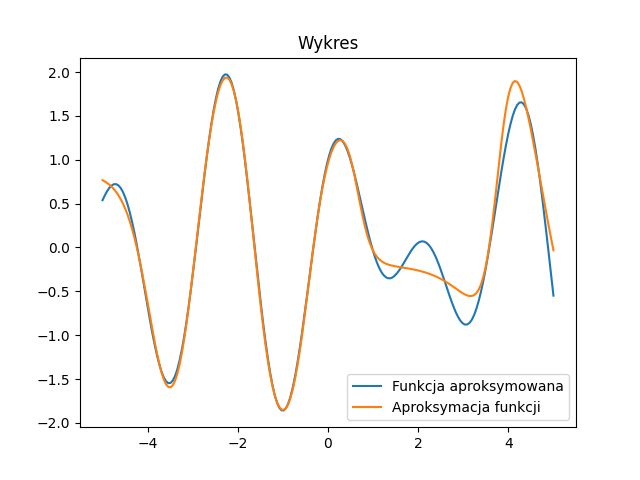
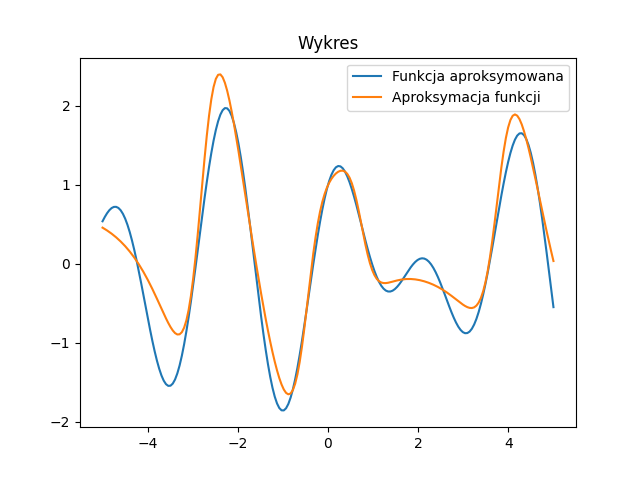
Change predict func

diff --git a/two_layer_perceptron.py b/two_layer_perceptron.py
@@ -63,14 +63,11 @@ class TwoLayerPerceptron:
     def _error_function_derivative(self, y_expected, y_result):
         return (y_result - y_expected) * 2
 
-    def predict(self, x):
-        # results = []
-        #
-        # for x in x_dataset:
-        #     h, y = self._forward(x)
-        #     results.append(y)
-        #
-        # return results
-        h, y = self._forward(x)
-        return y
-    
+    def predict(self, x_dataset):
+        results = []
+
+        for x in x_dataset:
+            h, y = self._forward(x)
+            results.append(y)
+
+        return results

diff --git a/draw_plot.py b/draw_plot.py
@@ -6,7 +6,7 @@ def draw_approximated_function_approximation_plot(lower_bound, upper_bound, appr
     coordinate_system = np.linspace(lower_bound, upper_bound, 200)
 
     y = approximated_func(coordinate_system)
-    approximation = [perceptron.predict(x) for x in coordinate_system]
+    approximation = perceptron.predict(coordinate_system)
 
     plt.plot(coordinate_system, y, label='Funkcja aproksymowana')
     plt.plot(coordinate_system, approximation, label='Aproksymacja funkcji')
